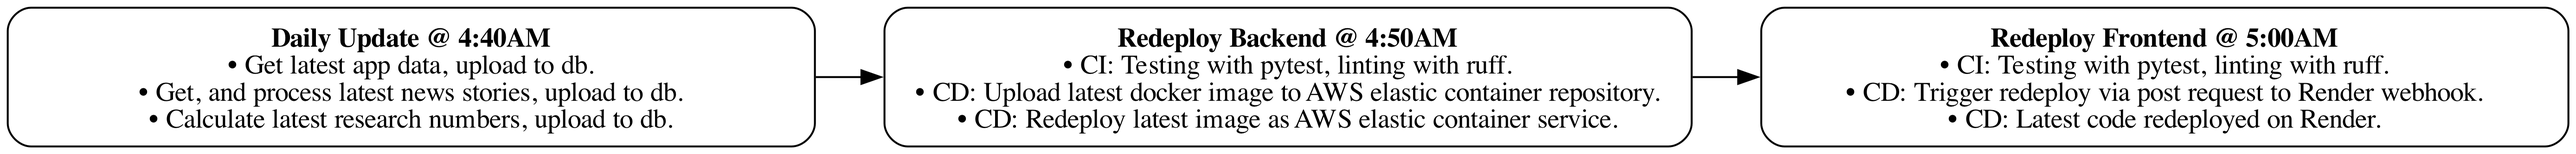
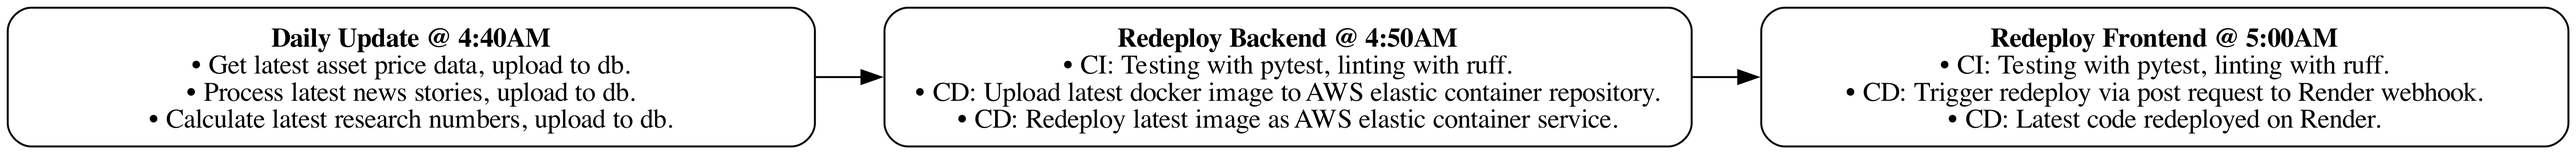
cicd

Changed region(s): [[0.0312, 0.5405, 0.2804, 0.6607], [0.0623, 0.3604, 0.2492, 0.5105]]

diff --git a/thecapitalfund/view/cicd.py b/thecapitalfund/view/cicd.py
@@ -10,7 +10,7 @@ dot.node(
     "daily_update",
     """<
 <B>Daily Update @ 4:40AM</B><br/>
-• Get latest data (prices & sentiments), upload to db.<br/>
+• Get latest asset price data, upload to db.<br/>
 • Process latest news stories, upload to db.<br/>
 • Calculate latest research numbers, upload to db.<br/>
 >""",
